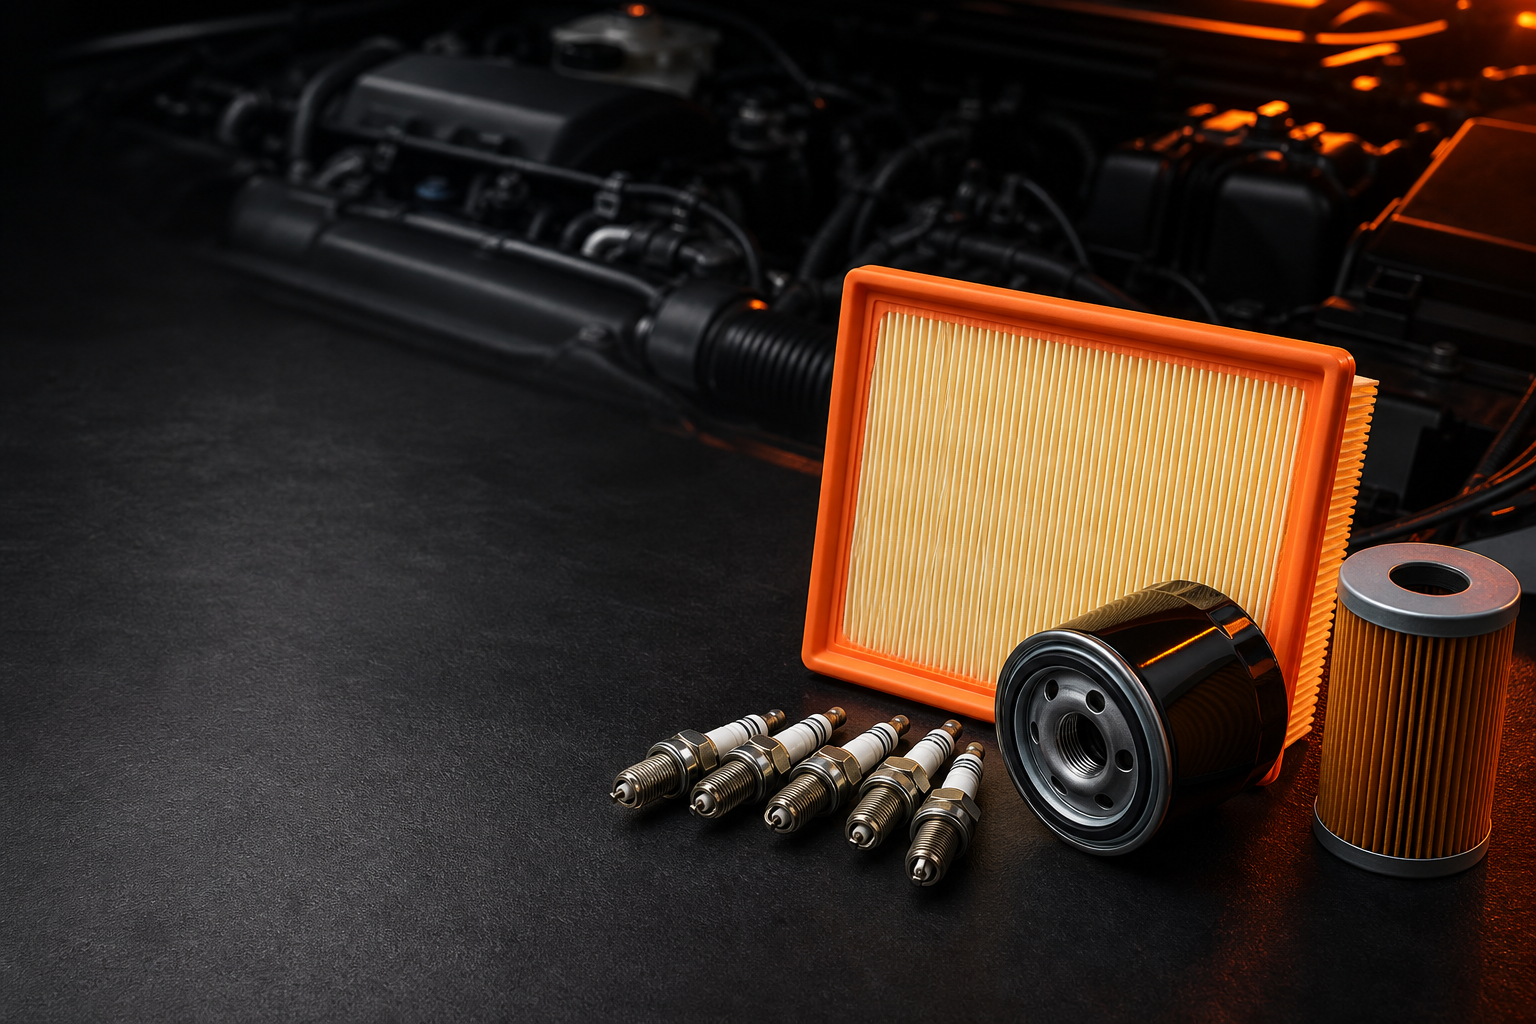
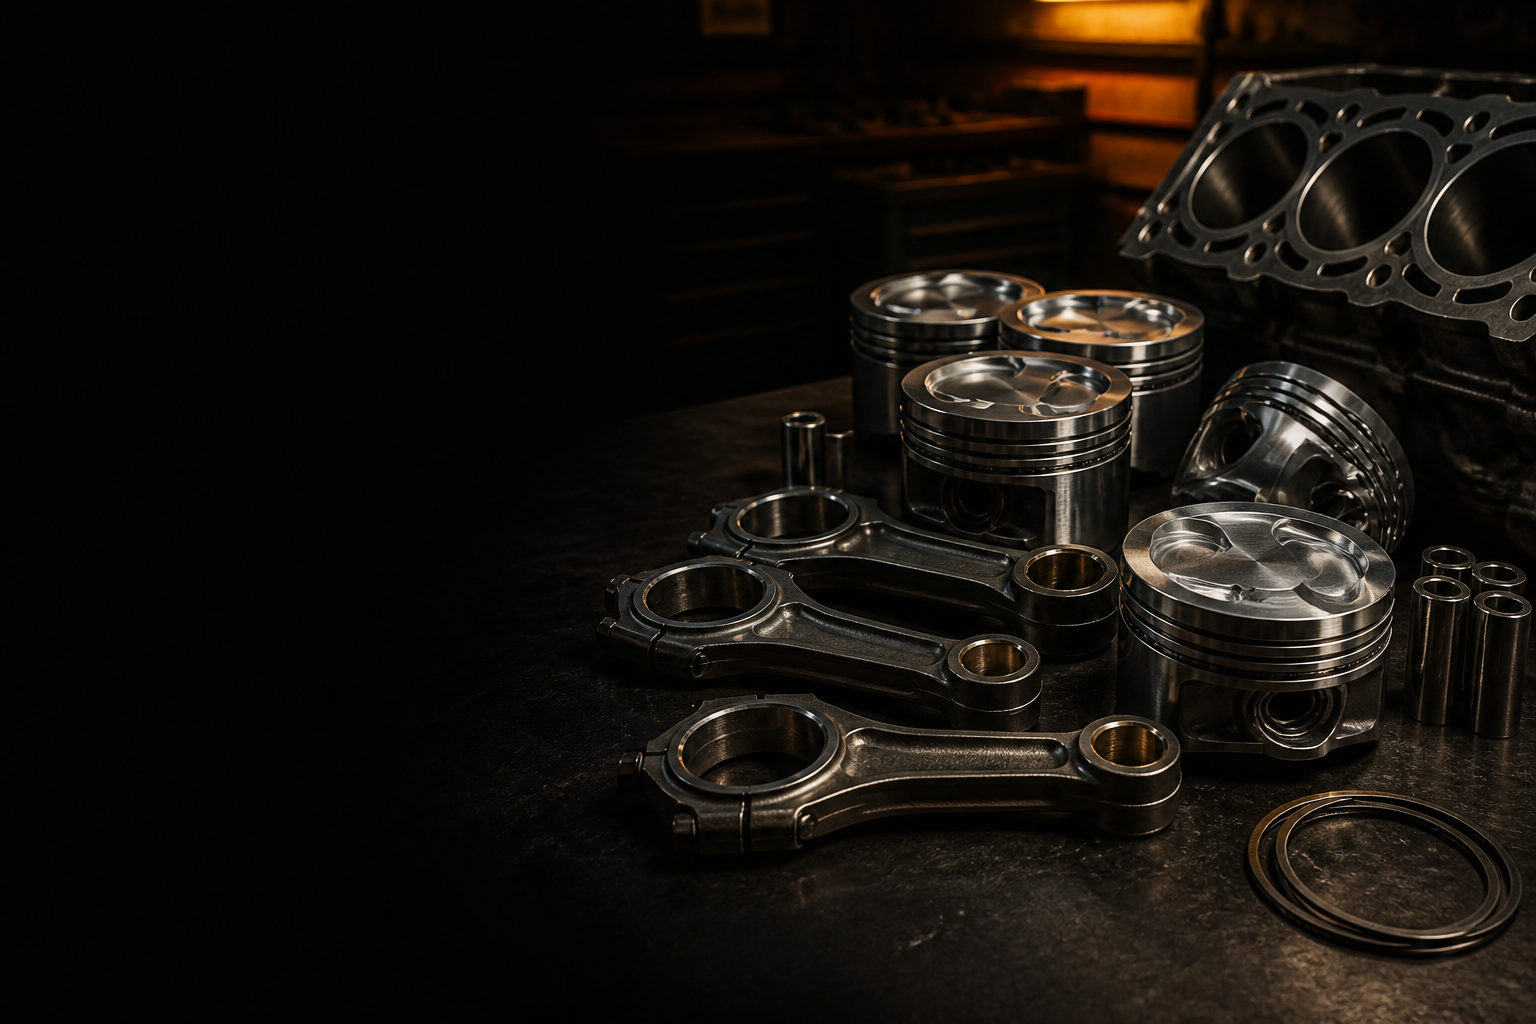
Retheme demo store from wheels-only to full performance car parts
Expand hero, copy, and voice-demo scenes across exhaust/turbo/brakes/suspension/engine while keeping wheels in the catalog and slideshow.

diff --git a/assets/base.css b/assets/base.css
@@ -1,6 +1,6 @@
 /* ============================================================
    DRIFT — Design System
-   Dark aftermarket wheel retail (Rolling District demo store)
+   Dark aftermarket performance car parts retail (demo store)
    ============================================================ */
 
 :root {
